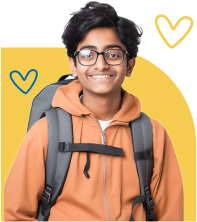
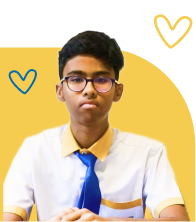
marth coshcolstics changes and testies

diff --git a/config.ts b/config.ts
@@ -26,6 +26,13 @@ import sports from "./src/images/campus/knk/facilities/sports.jpeg";
 import zumba from "./src/images/campus/knk/facilities/zumba.jpeg";
 import music from "./src/images/campus/knk/facilities/music.jpeg";
 
+import RoboticClassmarth from "./src/images/campus/marth/facilities/robotics.webp";
+import ComputerClassmarth from "./src/images/campus/marth/facilities/codingandcs.webp";
+import KgClassmarth from "./src/images/campus/marth/facilities/acitivitiesroom.webp";
+import sportsmarth from "./src/images/campus/marth/facilities/sports.webp";
+import zumbamarth from "./src/images/campus/marth/facilities/zumba.webp";
+import musicmarth from "./src/images/campus/marth/facilities/music.webp";
+
 import preview1 from './src/images/campus/gas/preview.png'
 import preview2 from './src/images/campus/gaw/preview.png';
 
@@ -389,30 +396,42 @@ const data: Data = {
       facilities: [
         {
           title: 'Robotics Class',
-          description: 'Insight Academy emphasizes hands-on learning through our continually upgraded, modern labs. With  ',
-          images: [RoboticClass],
+          description: "Unleash innovation at our school's robotics classes. With an exclusive robotics lab, students engage in immersive, practical learning, nurturing a passion for technology and problem-solving.",
+          images: [RoboticClassmarth],
           bgColor: 'linear-gradient(180deg, rgba(255, 255, 255, 0.00) 0%, rgba(245, 204, 79, 0.20) 100%);',
           
         },
         
         {
-          title: 'Computer Science Class',
-          description: "Insight Academy's library, a sanctuary for book enthusiasts, is spacious and bright, housing a diverse ",
-          images: [ComputerClass],
+          title: 'Coding & CS Class',
+          description: "Insight Academy integrates technology into education, offering computer learning with dedicated labs for both primary and senior grades. Each student has access to their individual computer, following a syllabus curated by expert computer educators.",
+          images: [ComputerClassmarth],
           
         },
         
         {
-          title: 'Activities Room for KG',
-          description: "Insight Academy integrates technology into education, providing computer learning with a dedicated",
-          images: [KgClass]
+          title: 'Curiosity Room for KG',
+          description: "Laughter and learning intertwine for our youngest explorers here. Bursting with playful adventures, this vibrant wonderland sparks joy, imagination, and endless learning.",
+          images: [KgClassmarth]
         },
+
         {
-          title: 'Computer Science Class',
-          description: "Insight Academy's library, a sanctuary for book enthusiasts, is spacious and bright, housing a diverse ",
-          images: [ComputerClass],
-          
+          title: 'Sports Academy',
+          description: "Our comprehensive campus facilities encompass a diverse range of sports. With expert trainers, students can engage in activities like football, basketball, cricket, and more. Our dedicated sports academy includes options like table tennis, throwball, volleyball, skating and swimming! ",
+          images: [sportsmarth]
         },
+
+        {
+          title: 'Yoga & Zumba',
+          description: "Our experienced yoga instructors  guide students through each pose, and help understand the magic of breathing, stretching, and finding their inner calm. Students also get their groove on with our super fun Zumba sessions, where they can dance, sweat, and be fit while having an absolute blast!",
+          images: [zumbamarth]
+        },
+
+        {
+          title: 'Music Classes',
+          description: "Students unleash their musical potential with our diverse range of classes. From piano and guitar to drums, veena, and singing, our expert instructors help cultivate their passion, bringing melodies to life in an enriching and supportive environment. ",
+          images: [musicmarth]
+        }
       ],
       contact: {
         details: {
@@ -477,13 +496,13 @@ const data: Data = {
       },
       {
         image: testimonial2,
-        quote: 'Insight Academy has enriched my life! The supportive teachers and engaging activities have truly made my school years memorable.',
-        author: '- SANATAN (grade 10)',
+        quote: 'This school has helped me develop a wide range of skills at a very highly detailed level, which aids me in all aspects of life, from studying to sports.',
+        author: '- KAMAT (Grade 10)',
       },
       {
         image: testimonial1,
-        quote: 'At Insight Academy, every day is an adventure! The fascinating blend of academics and co-curriculars instills in us the love for learning.',
-        author: '- SANATAN (grade 10)',
+        quote: "The teachers and the whole environment here encourage you to push beyond your limits and that's why I feel like this is the perfect school for me! ",
+        author: '- ABHINAV (grade 10)',
 
       },
     ],
